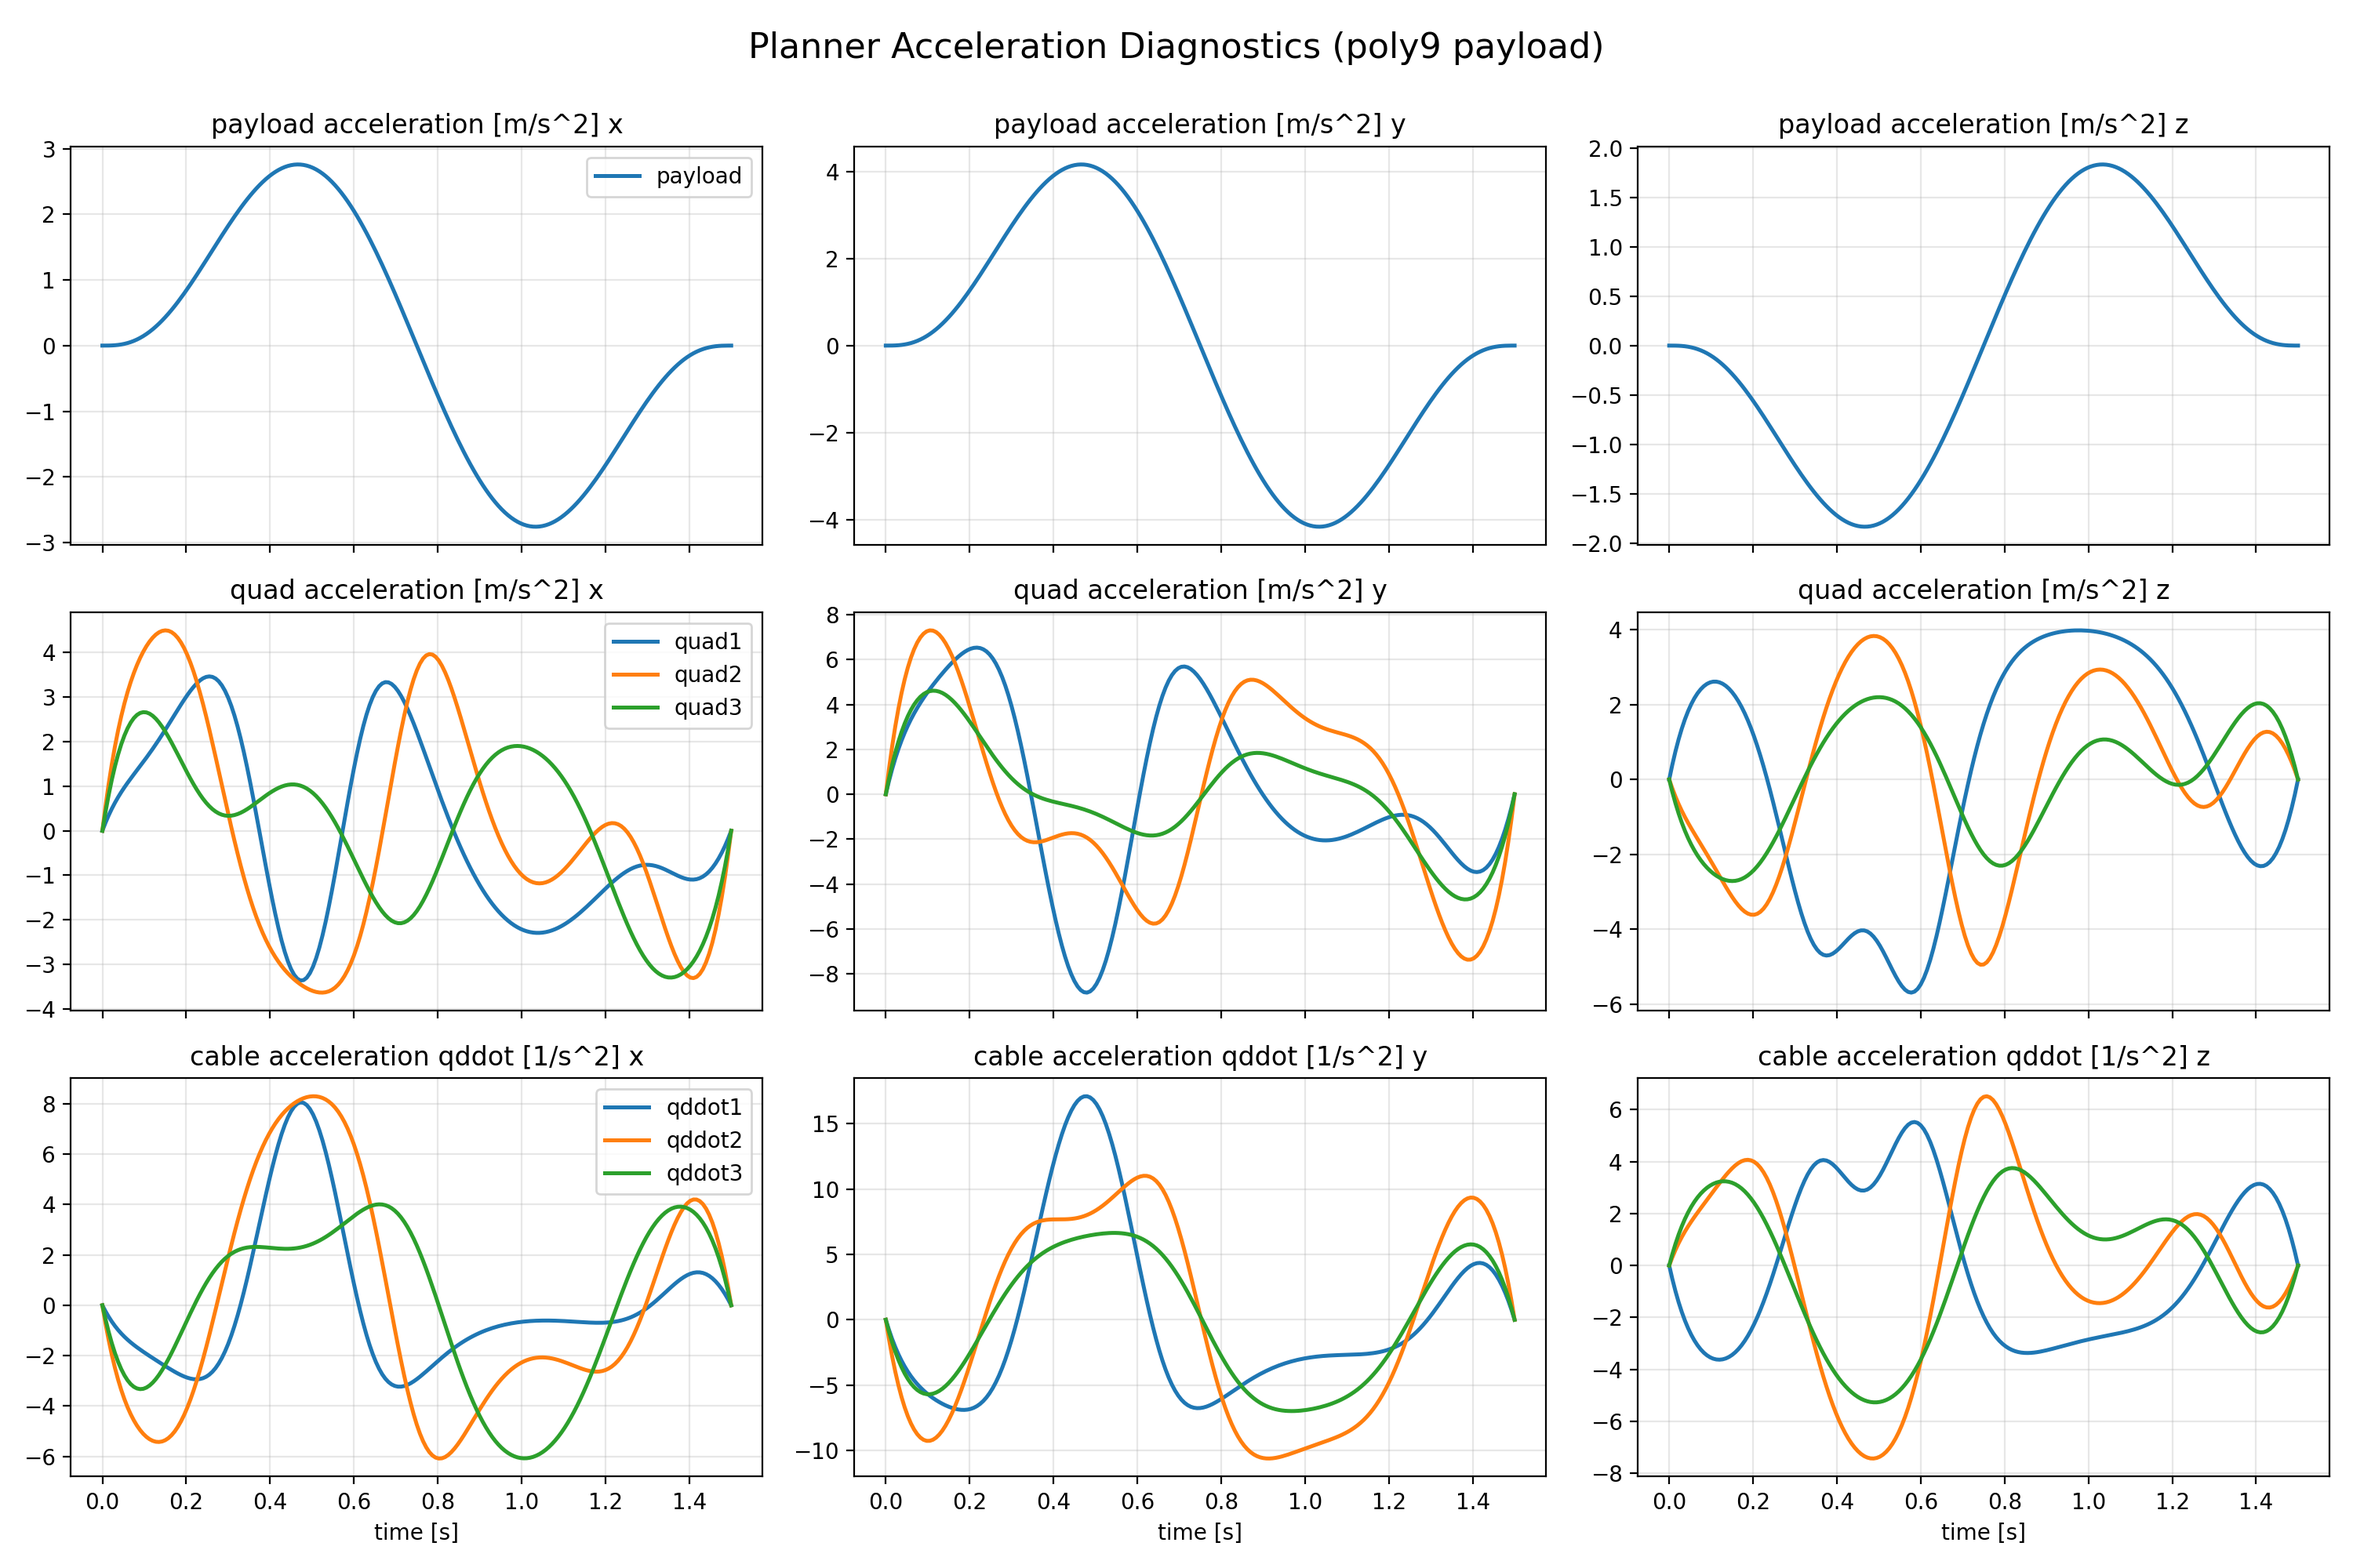
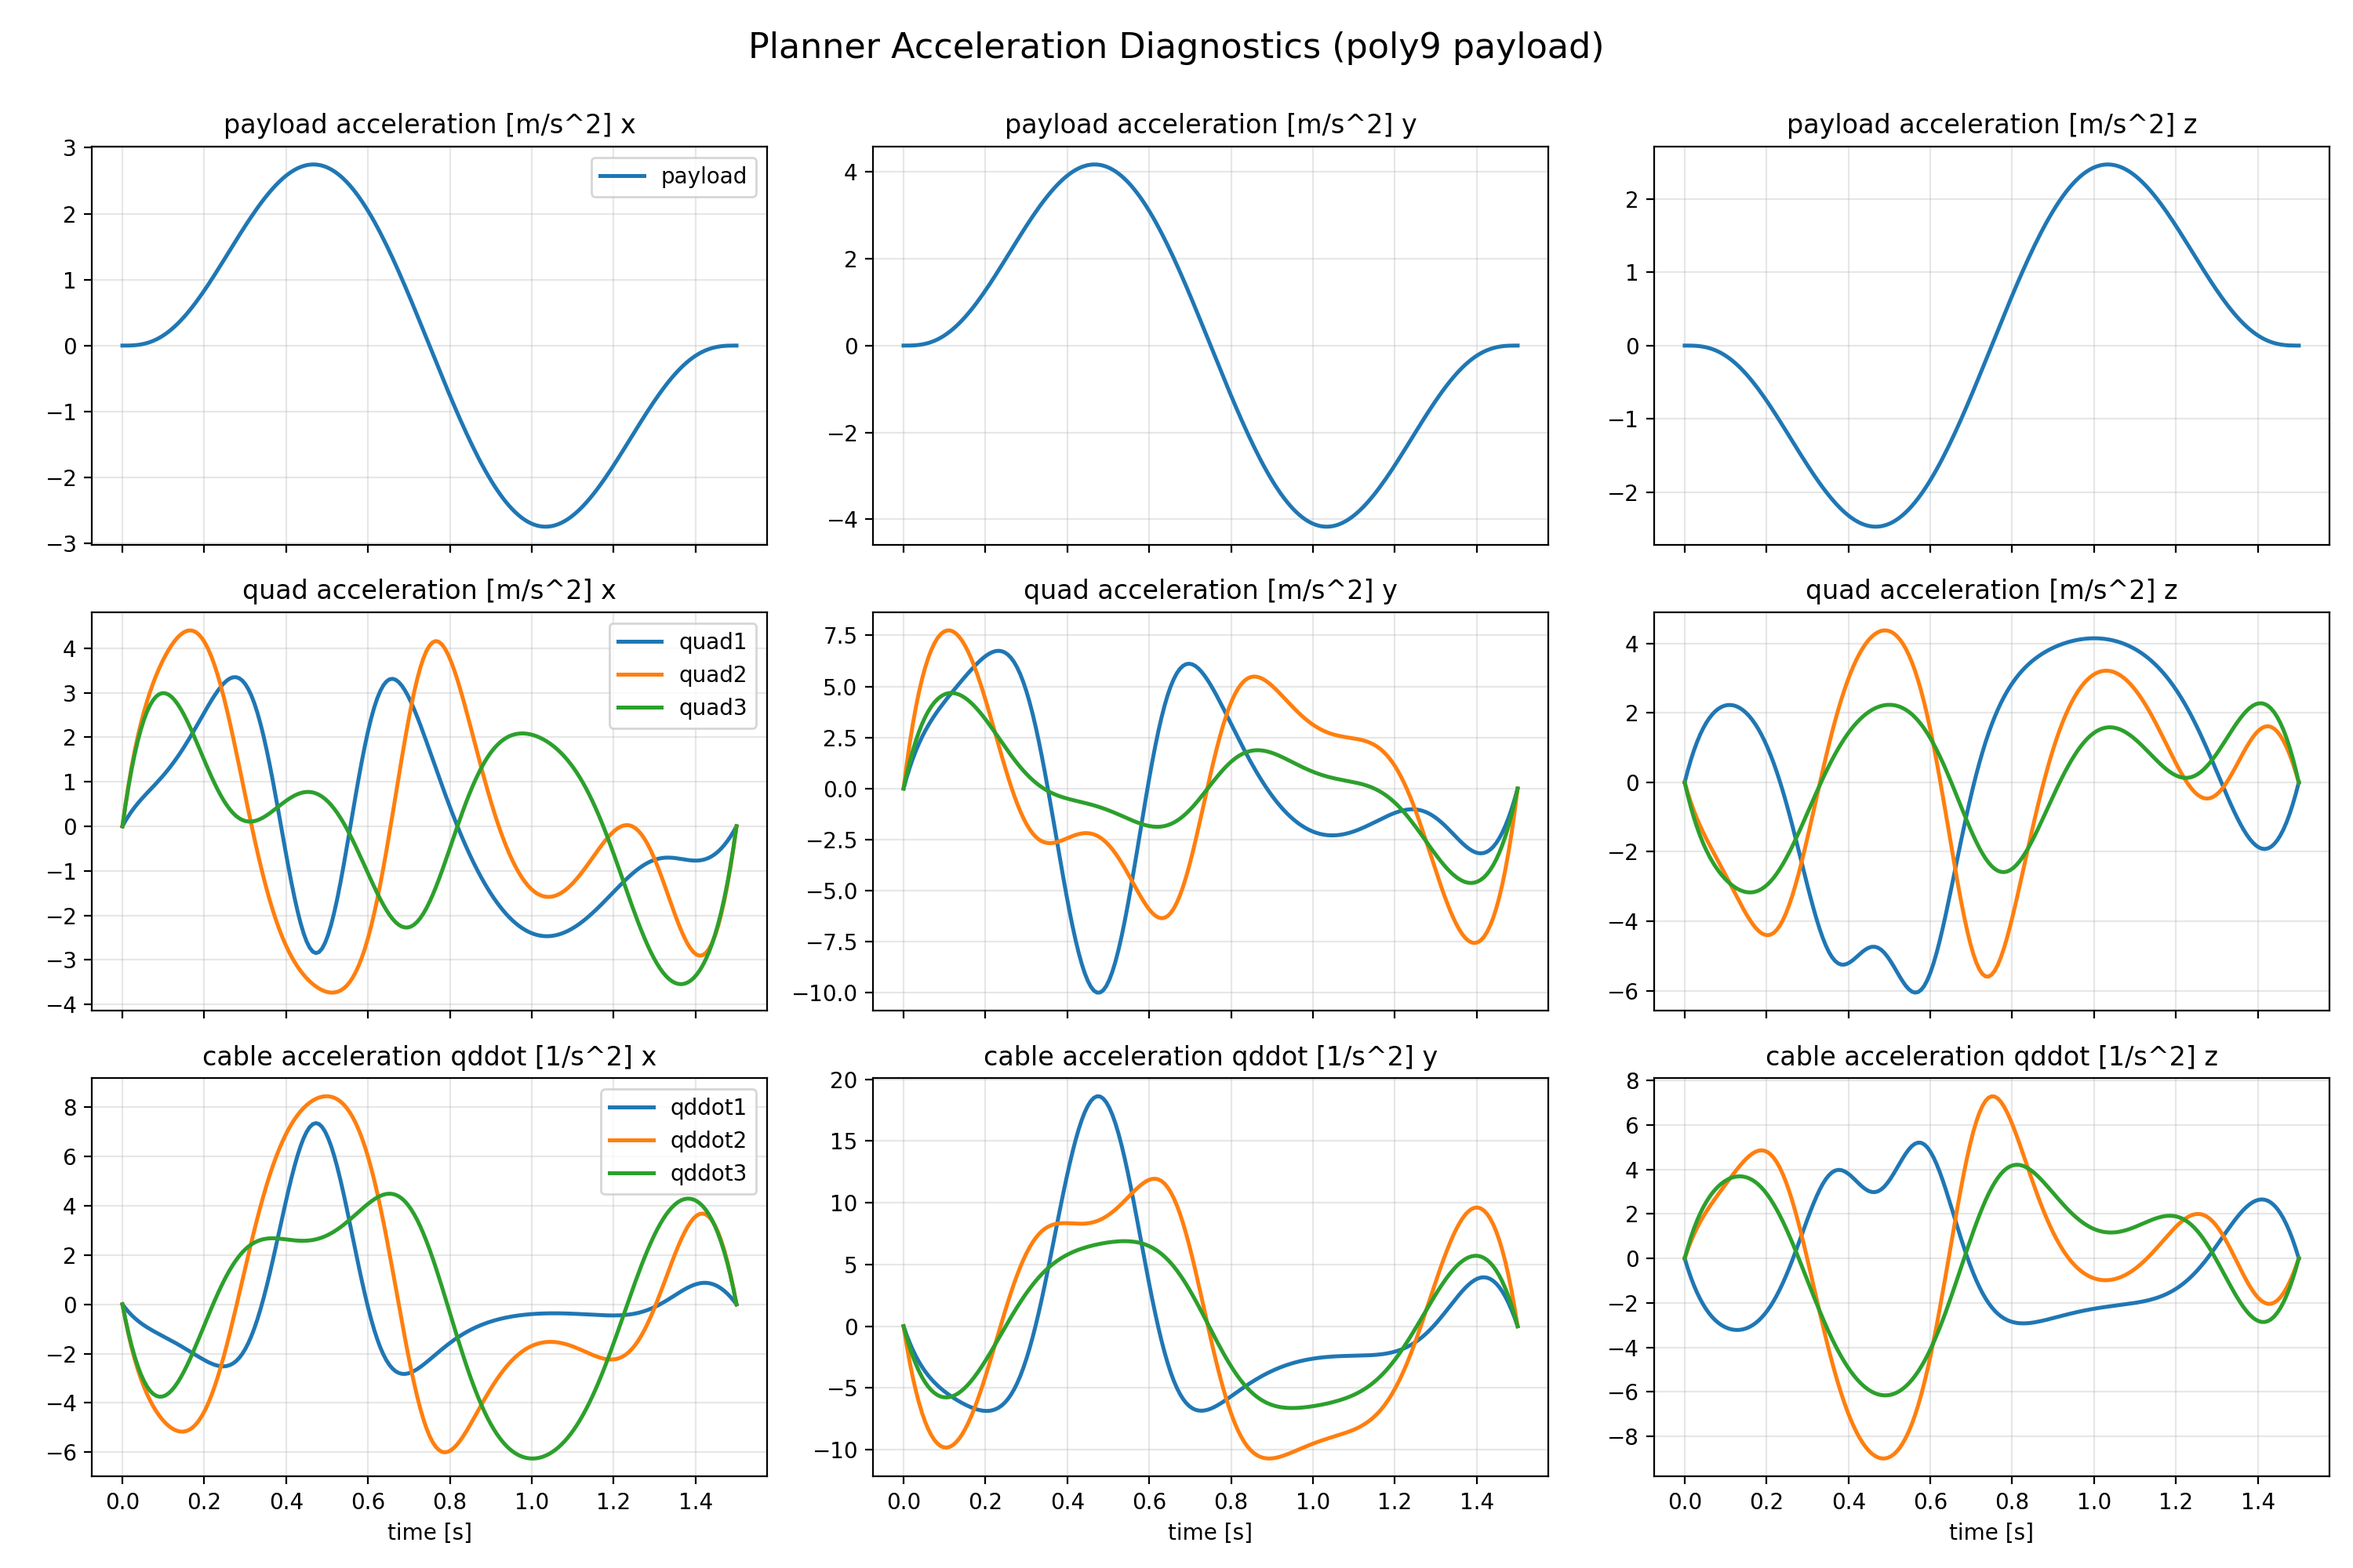
backup working

diff --git a/payload_pointmass_multiple_quadrotor/point_mass_acceleration.py b/payload_pointmass_multiple_quadrotor/point_mass_acceleration.py
@@ -231,7 +231,7 @@ class PayloadControlMujocoMultiplePointMass(Node):
         ## Define desired Values 
         self.xd = np.zeros((self.n_x, ), dtype=np.double)
         self.ud = np.zeros((self.n_u, ), dtype=np.double)
-        self.planner_goal = np.array([1.0, 1.0, 0.5], dtype=np.double)
+        self.planner_goal = np.array([1.0, 1.0, 0.3], dtype=np.double)
 
         self.timer = self.create_timer(self.ts, self.run)
 
@@ -826,12 +826,12 @@ class PayloadControlMujocoMultiplePointMass(Node):
         self.Kp = ca.MX.zeros(3, 3)
         self.Kp[0, 0] = 100.0
         self.Kp[1, 1] = 100.0
-        self.Kp[2, 2] = 350.0
+        self.Kp[2, 2] = 100.0
 
         self.Kv = ca.MX.zeros(3, 3)
-        self.Kv[0, 0] = 1.0
-        self.Kv[1, 1] = 1.0
-        self.Kv[2, 2] = 1.0
+        self.Kv[0, 0] = 10.0
+        self.Kv[1, 1] = 10.0
+        self.Kv[2, 2] = 10.0
         
         ## Gains for cable direcitions
         self.Kp_n1 = ca.MX.zeros(3, 3)
